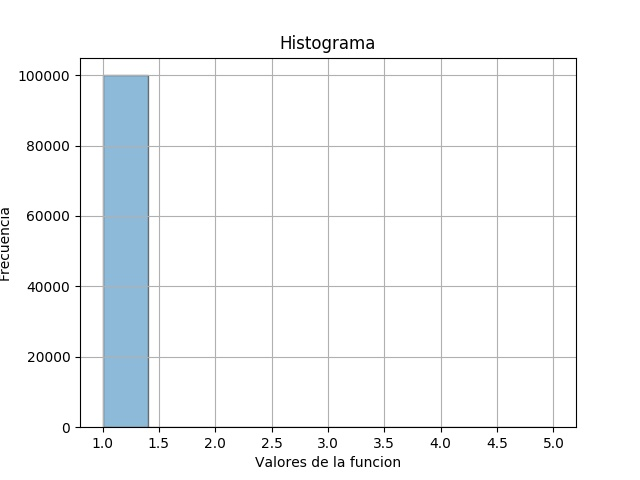
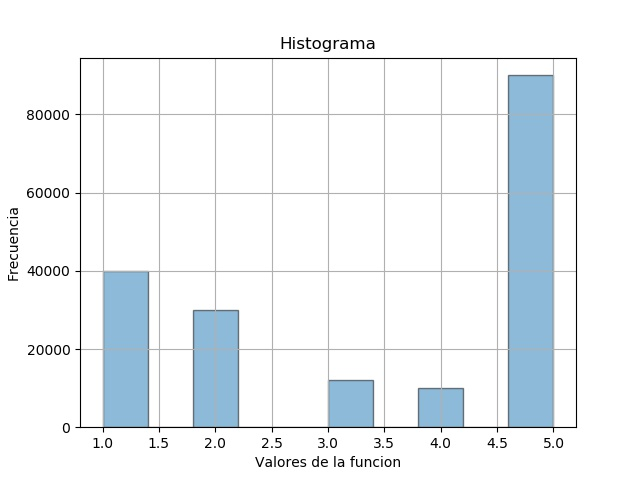
arreglado ej1, ej2, ej5

diff --git a/ejercicios/TPEj5.py b/ejercicios/TPEj5.py
@@ -16,16 +16,16 @@ def GCL( valor ):
 
 def funcionInversa( valoresFuncion, secuencia ):
 	for nro in secuencia:
-	    if (nro >= 0 and nro < 0.4):
-		valoresFuncion.append(1)
-	    elif (nro >= 0.4 and nro < 0.7):
-		valoresFuncion.append(2)
-	    elif (nro >= 0.7 and nro < 0.82):
-		valoresFuncion.append(3)
-	    elif (nro >= 0.82 and nro < 0.92):
-		valoresFuncion.append(4)	
-	    else:
-		valoresFuncion.append(5)
+		if (nro >= 0) and (nro < 0.4):
+			valoresFuncion.append(1)
+		if (nro>=0.4) and (nro < 0.7):
+			valoresFuncion.append(2)
+		if (nro >= 0.7 and nro < 0.82):
+			valoresFuncion.append(3)
+		if (nro >= 0.82 and nro < 0.92):
+			valoresFuncion.append(4)
+		else:			
+			valoresFuncion.append(5)
 	
 	return valoresFuncion
 
@@ -43,7 +43,7 @@ def crearHistograma(valores):
 	plt.title('Histograma')
 	plt.xlabel('Valores de la funcion')
 	plt.ylabel('Frecuencia')
-	plt.hist(valores, bins = 10, alpha=0.5, ec='black')
+	plt.hist(valores, alpha=0.5, ec='black')
 	plt.grid(True)
 	plt.show()
 
@@ -56,7 +56,7 @@ def correrEjercicio():
 	#La función inversa de la Función de distribución Empírica es: 
 	valores = funcionInversa( valoresFuncion, secuenciaModulada )
 	#histograma
-	#crearHistograma(valores)
+	crearHistograma(valores)
 	return valores
 
 correrEjercicio()

diff --git a/ejercicios/TPEj2.py b/ejercicios/TPEj2.py
@@ -18,7 +18,7 @@ def GCL( valor ):
 
 #Transformada inversa
 def transformadaInversa(u):
-	return -(float(1)/float(20)) * math.log(1-u)
+	return -(float(20)) * math.log(1-u) ##modificado
 
 #Creamos la secuencia utilizando el generador GCL
 for i in range(1,100000):
@@ -45,9 +45,10 @@ media = np.mean(secuencia)
 #Valor simulado de la media
 print("El valor simulado de la media es {}".format(media))
 #Valor teorico de la media
-print("El valor teórico de la media es {}".format(float(1)/float(20)))
+print("El valor teórico de la media es {}".format(float(20)))
 
 #Calculo de varianza
 varianza = np.var(secuencia)
 print("El valor simulado de la varianza es {}".format(varianza))
-print("El valor teórico de la varianza es {}".format(float(1)/float((20))**2))
+lamdaCuadrado = float(1)/float(20**2)
+print("El valor teórico de la varianza es {}".format(float(1)/lamdaCuadrado))
